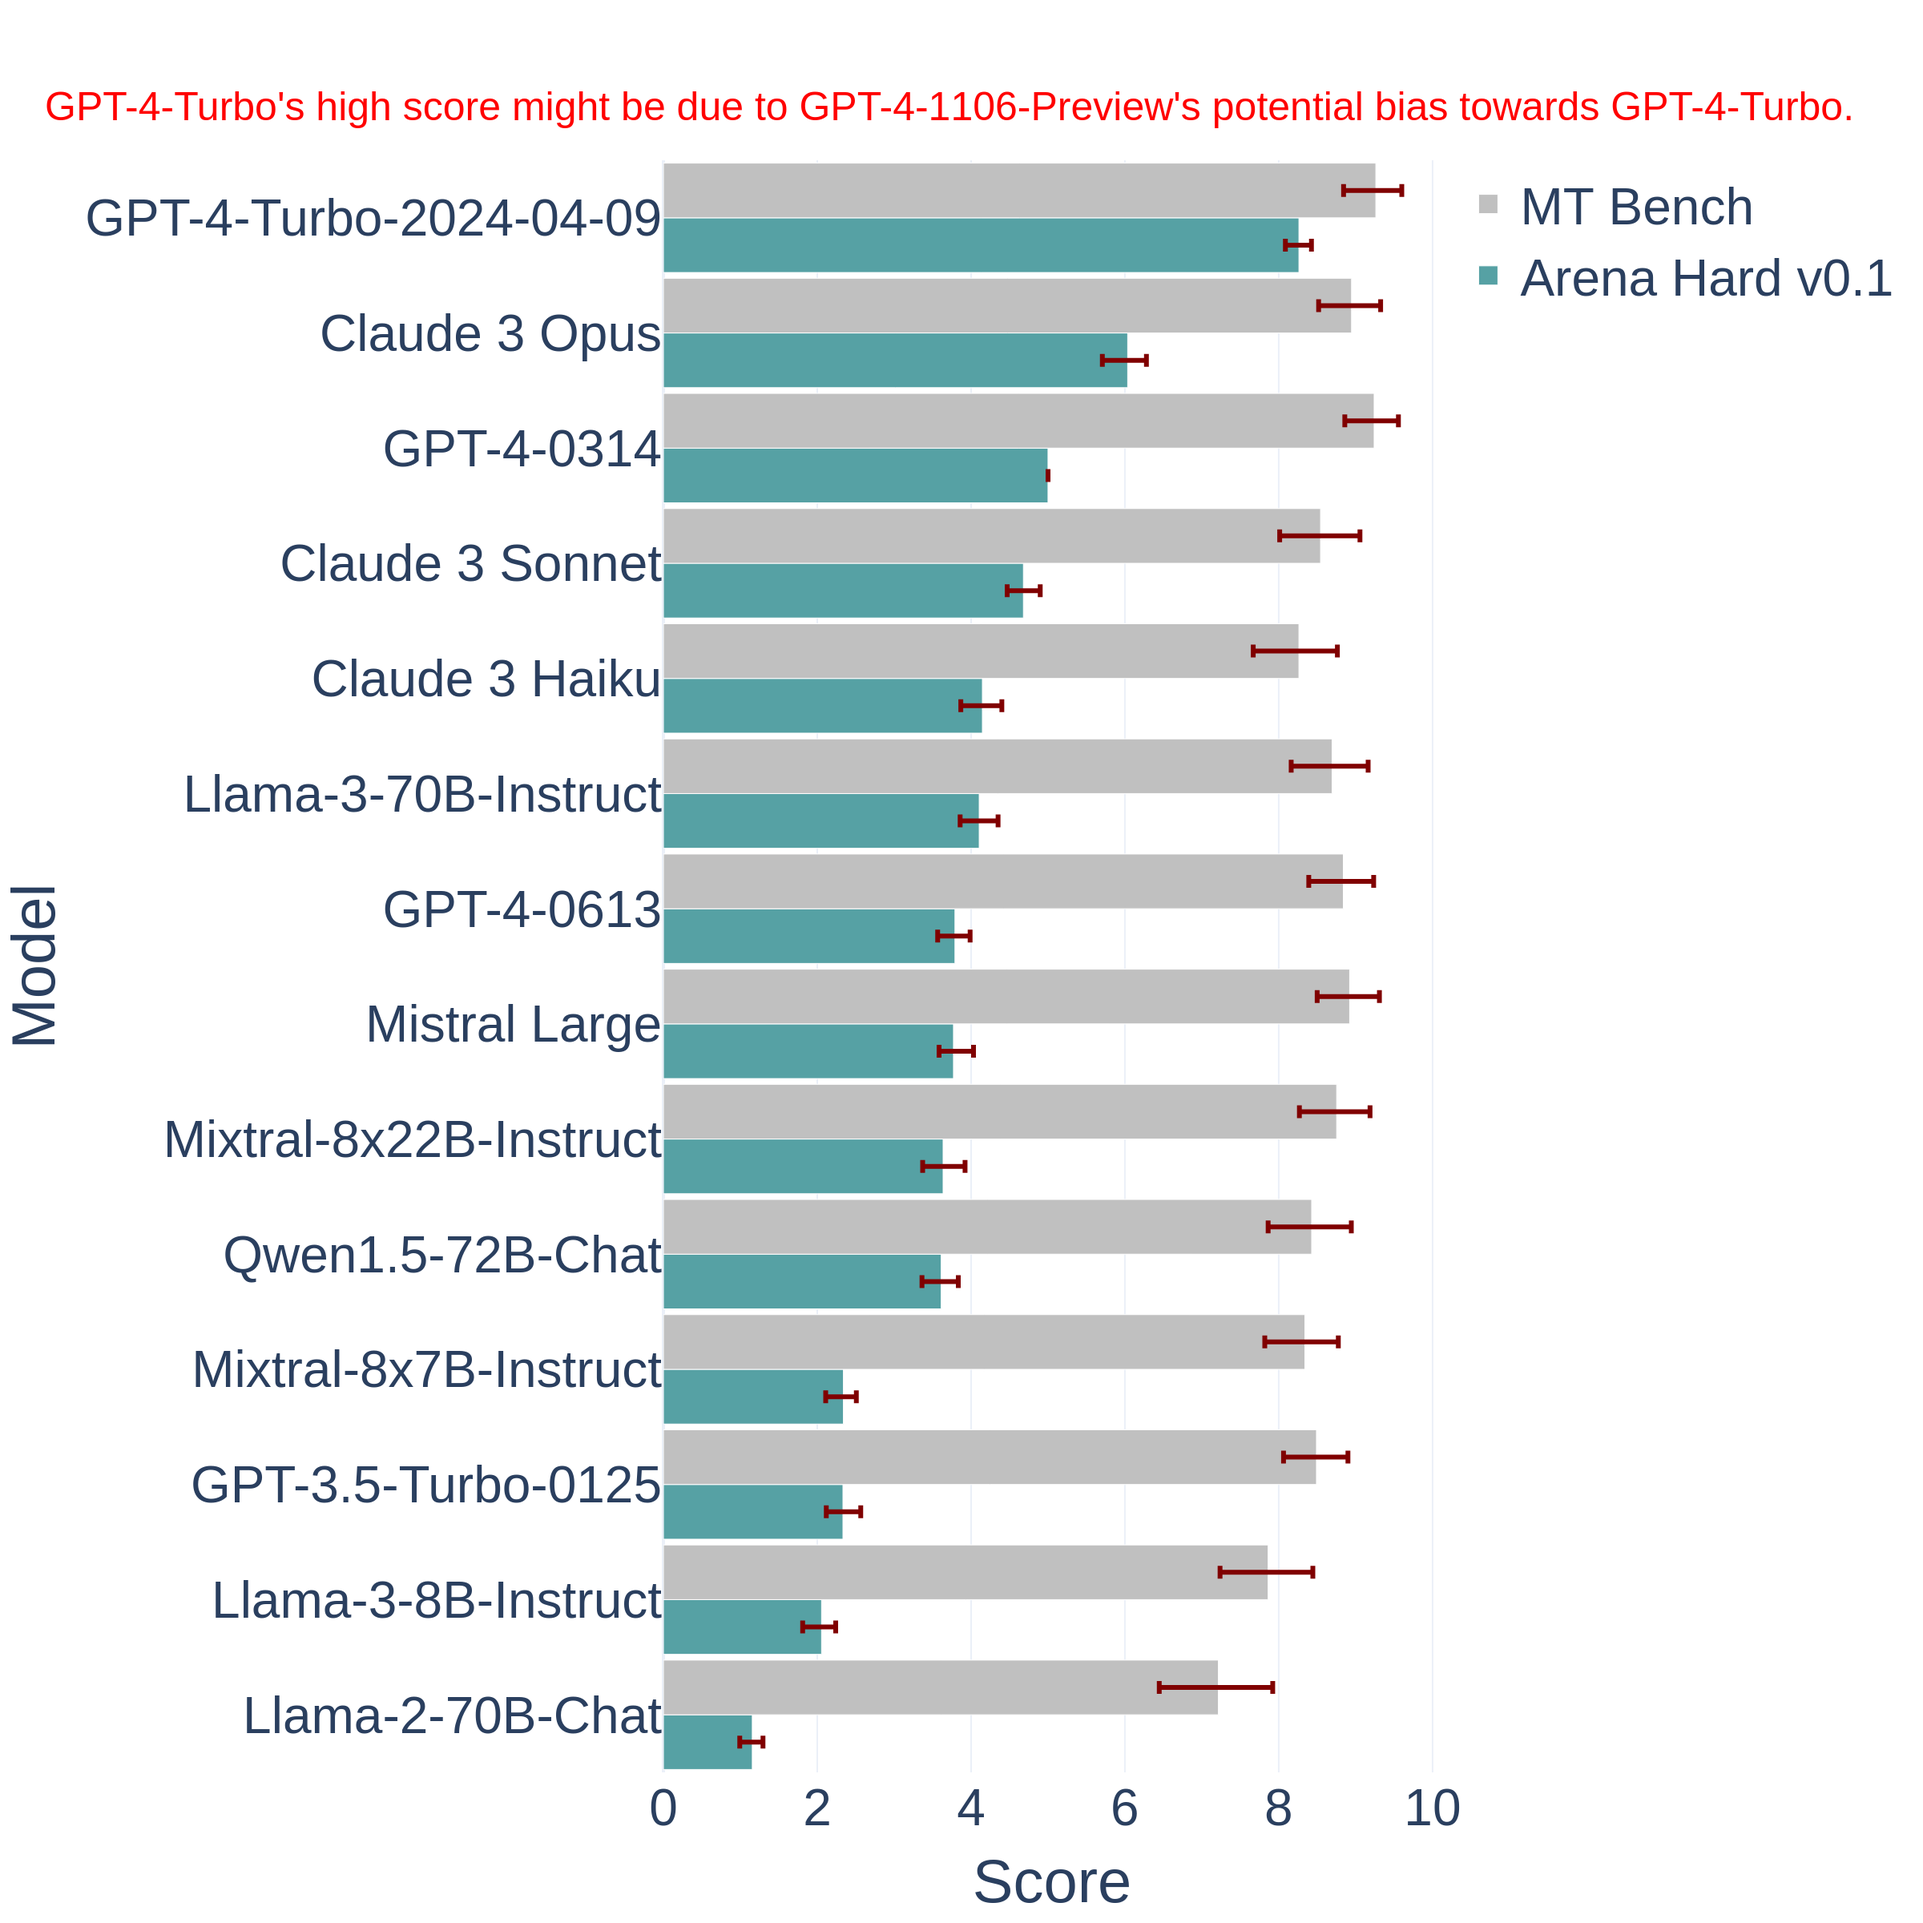
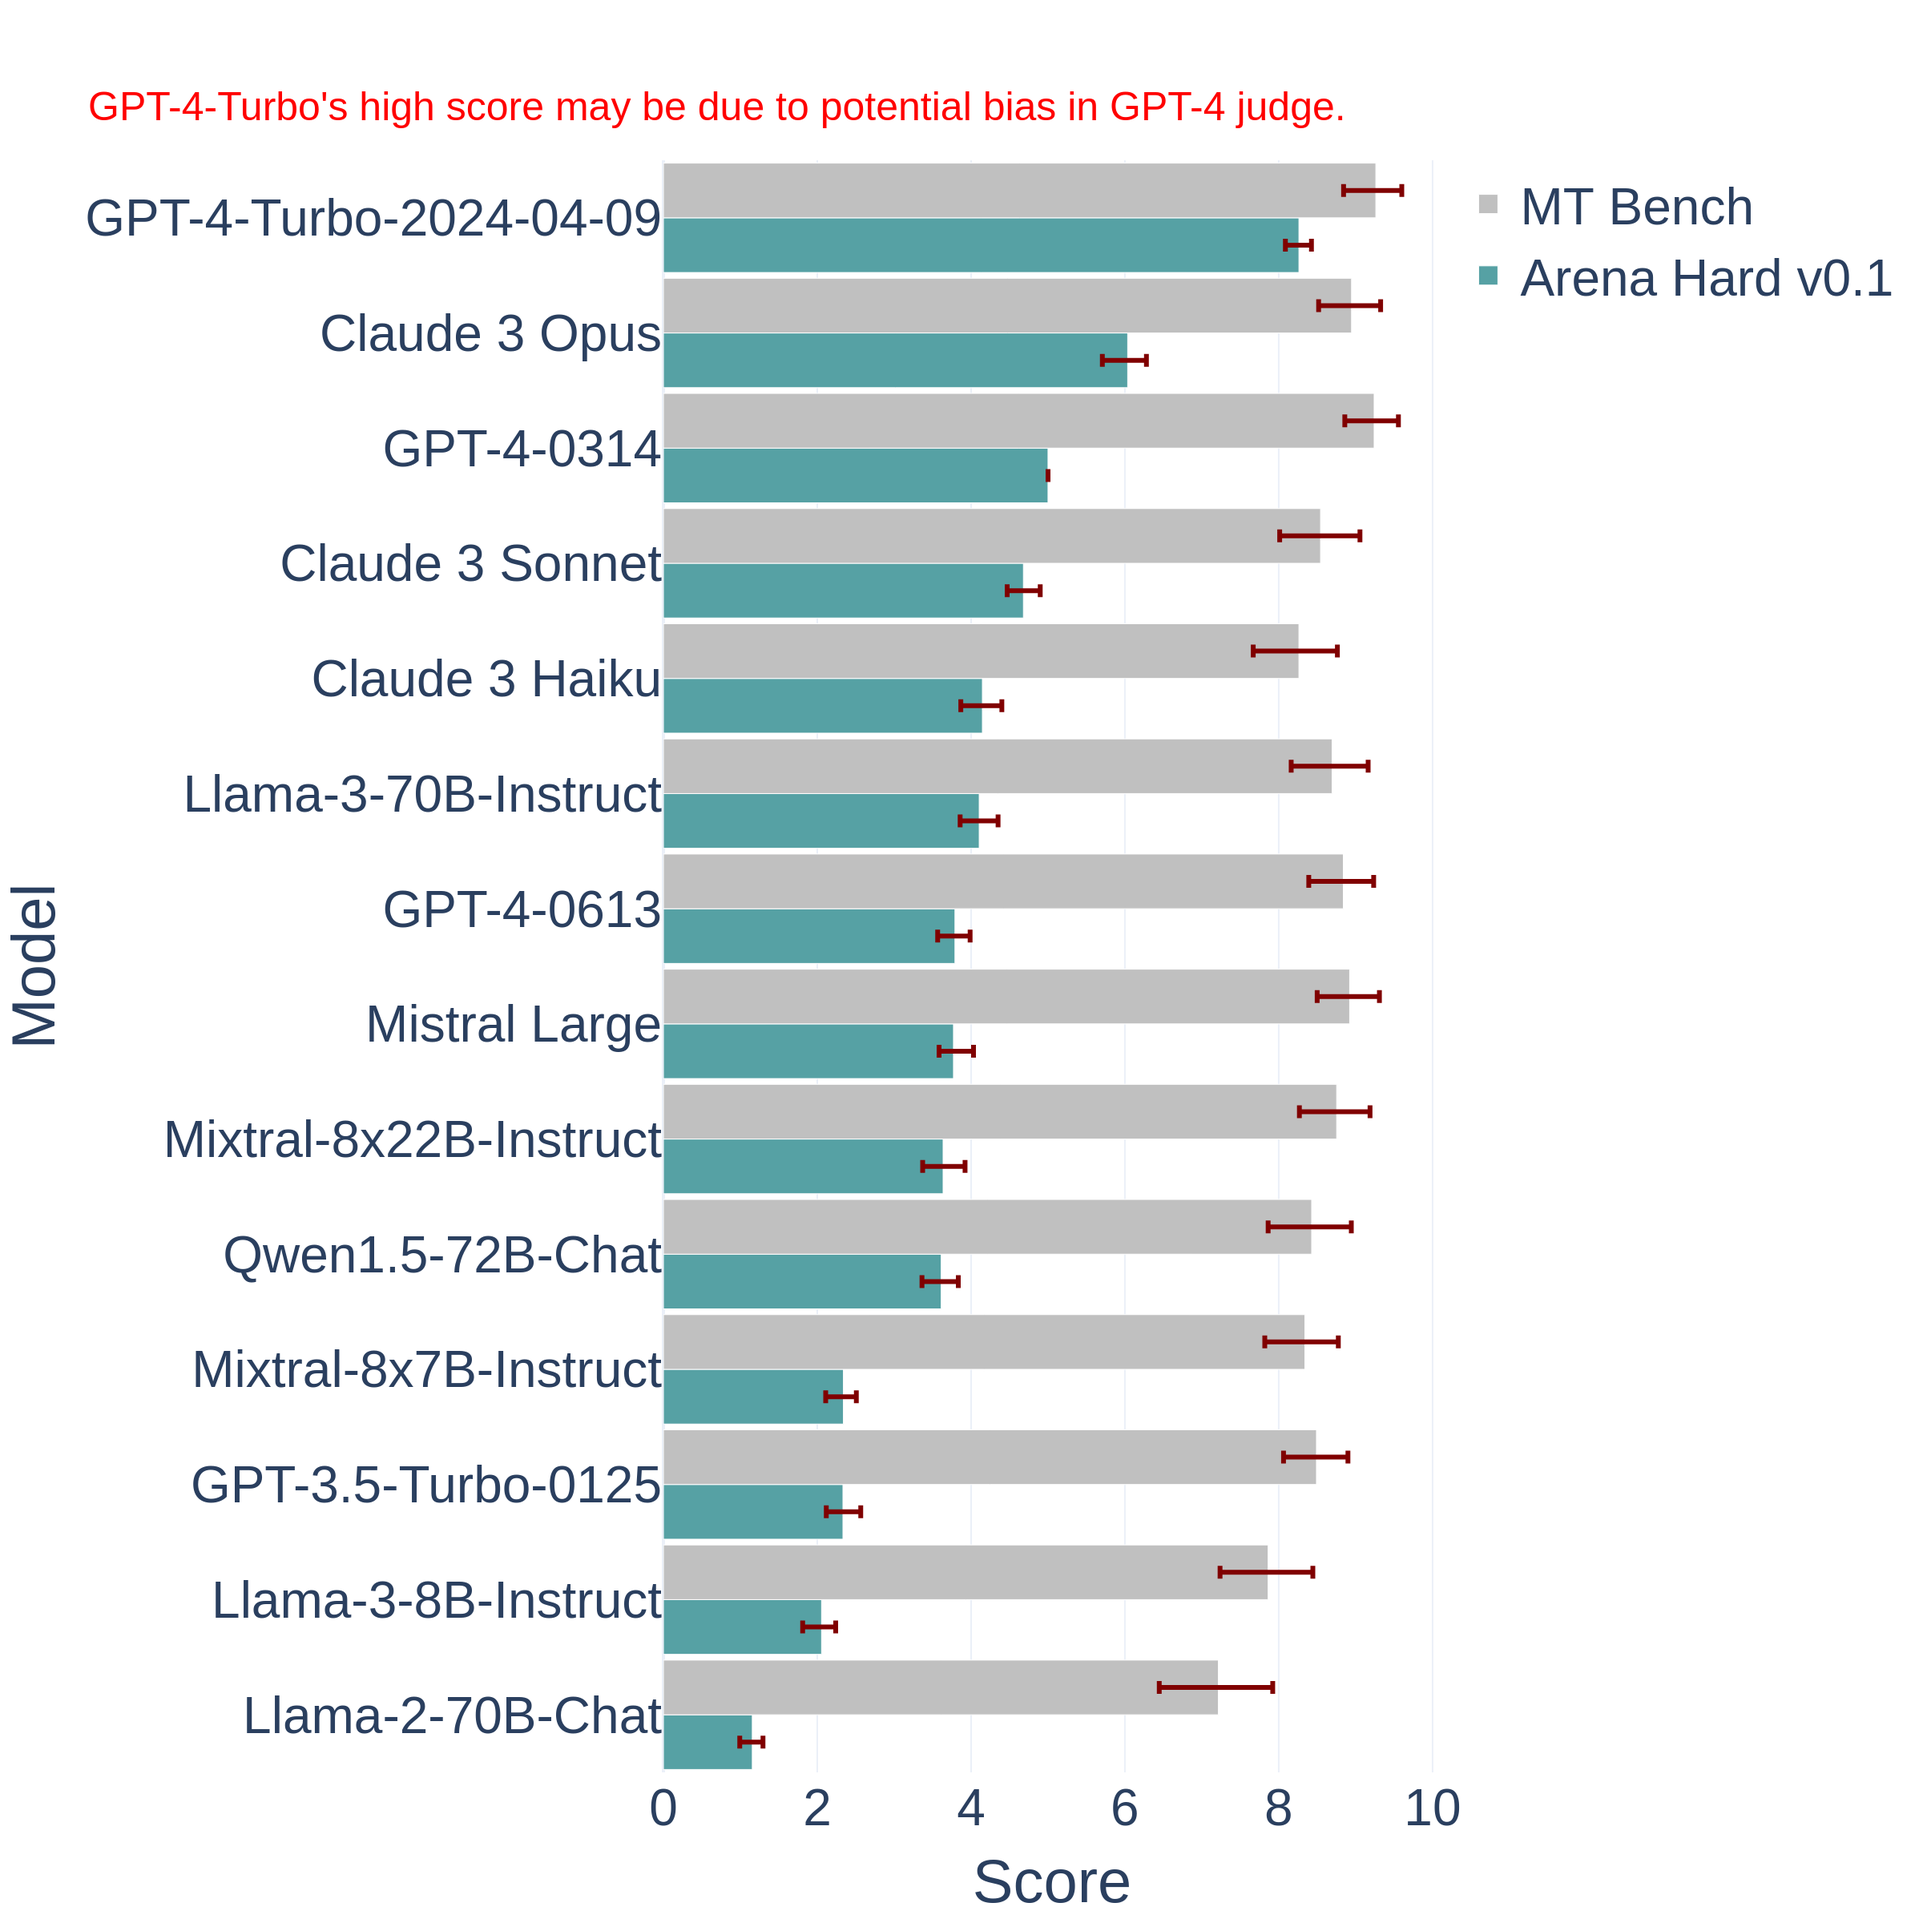
fixes

Changed region(s): [[0.0312, 0.0312, 0.875, 0.0625], [0.9062, 0.0312, 0.9688, 0.0625]]

diff --git a/blog/2024-04-19-arena-hard.md b/blog/2024-04-19-arena-hard.md
@@ -286,7 +286,7 @@ To avoid potential position bias, we adopt a two-game setup – per query we swa
 
 We use gpt-4-1106-preview as the judge model to generate judgment for the model response against baseline. We take all the comparisons and compute each model’s Bradley-Terry coefficient. We then transform it to win-rate against the baseline as the final score. The 95% confidence interval is computed via 100 rounds of bootstrapping.
 
-<p style="color:gray; text-align: center;">Arena Hard v0.1 Leaderboard</p>
+<p style="color:gray; text-align: center;">Arena Hard v0.1 Leaderboard (baseline: GPT-4-0314)</p>
 <div style="display: flex; justify-content: center; font-family: Consolas, monospace;">
 <table style="line-height: 1; font-size: 1.0em;">
   <caption style="text-align: left; color: red">*Note: GPT-4-Turbo’s high score can be due to the GPT-4 judge favoring GPT-4 outputs.</caption>
